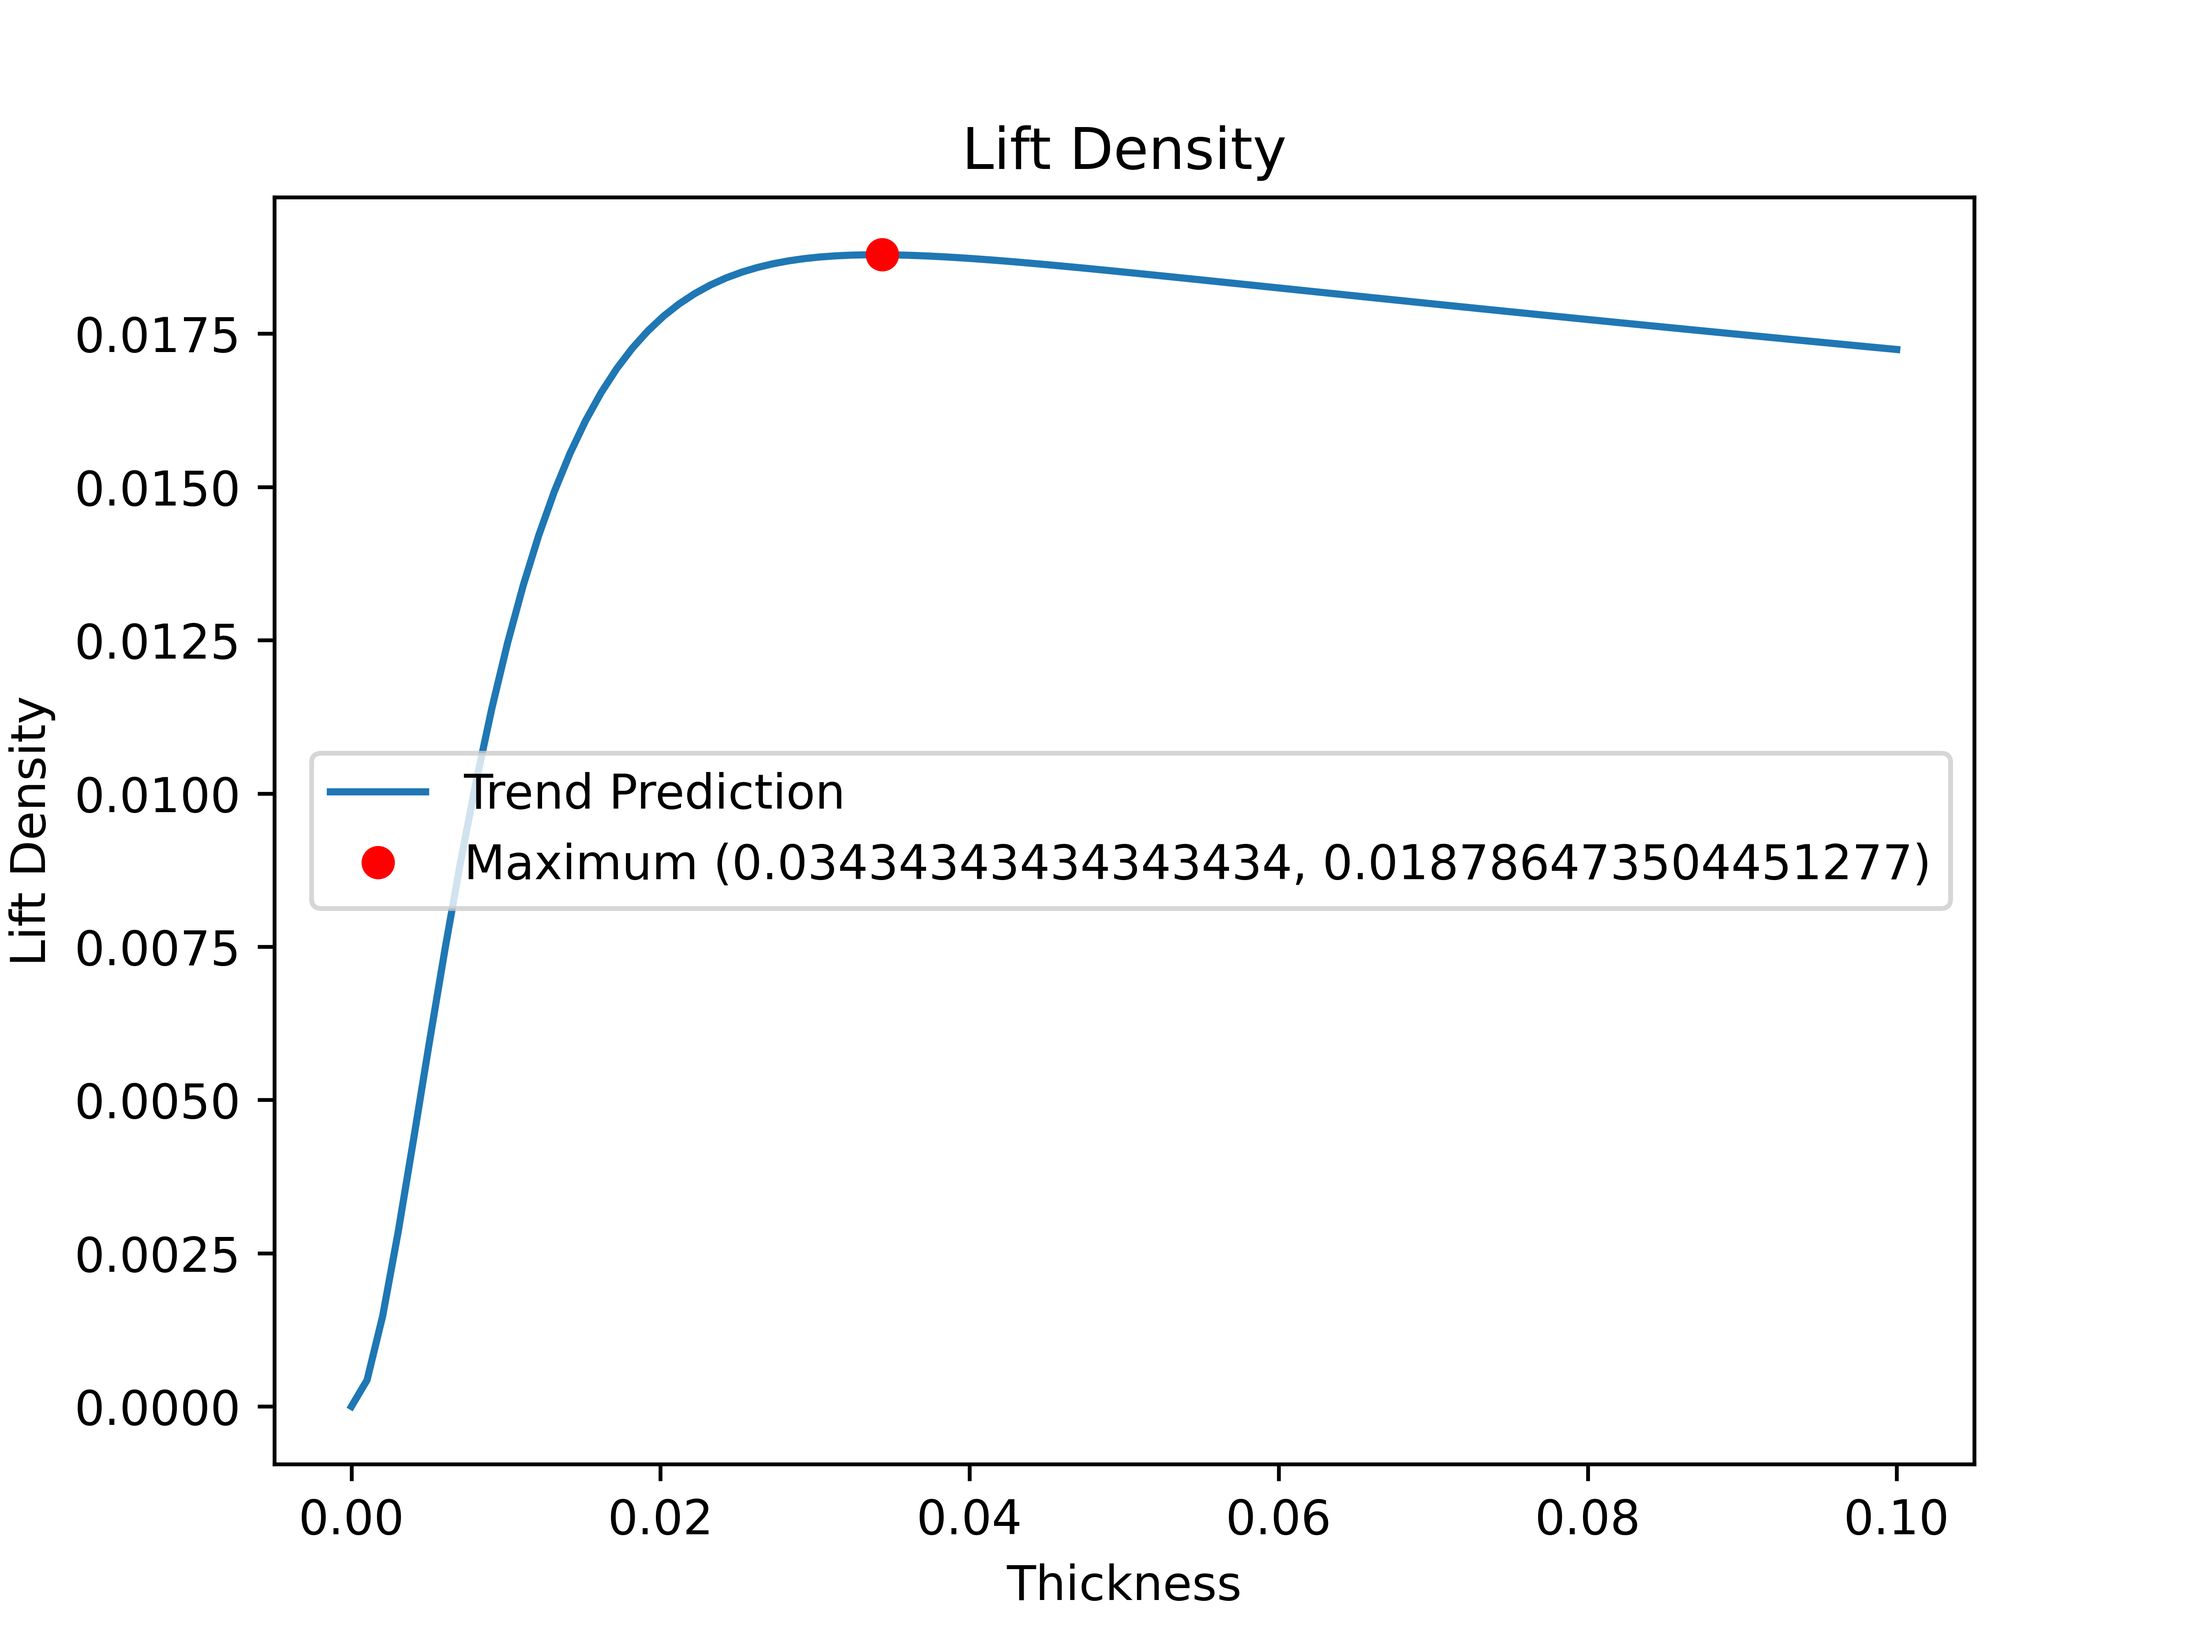
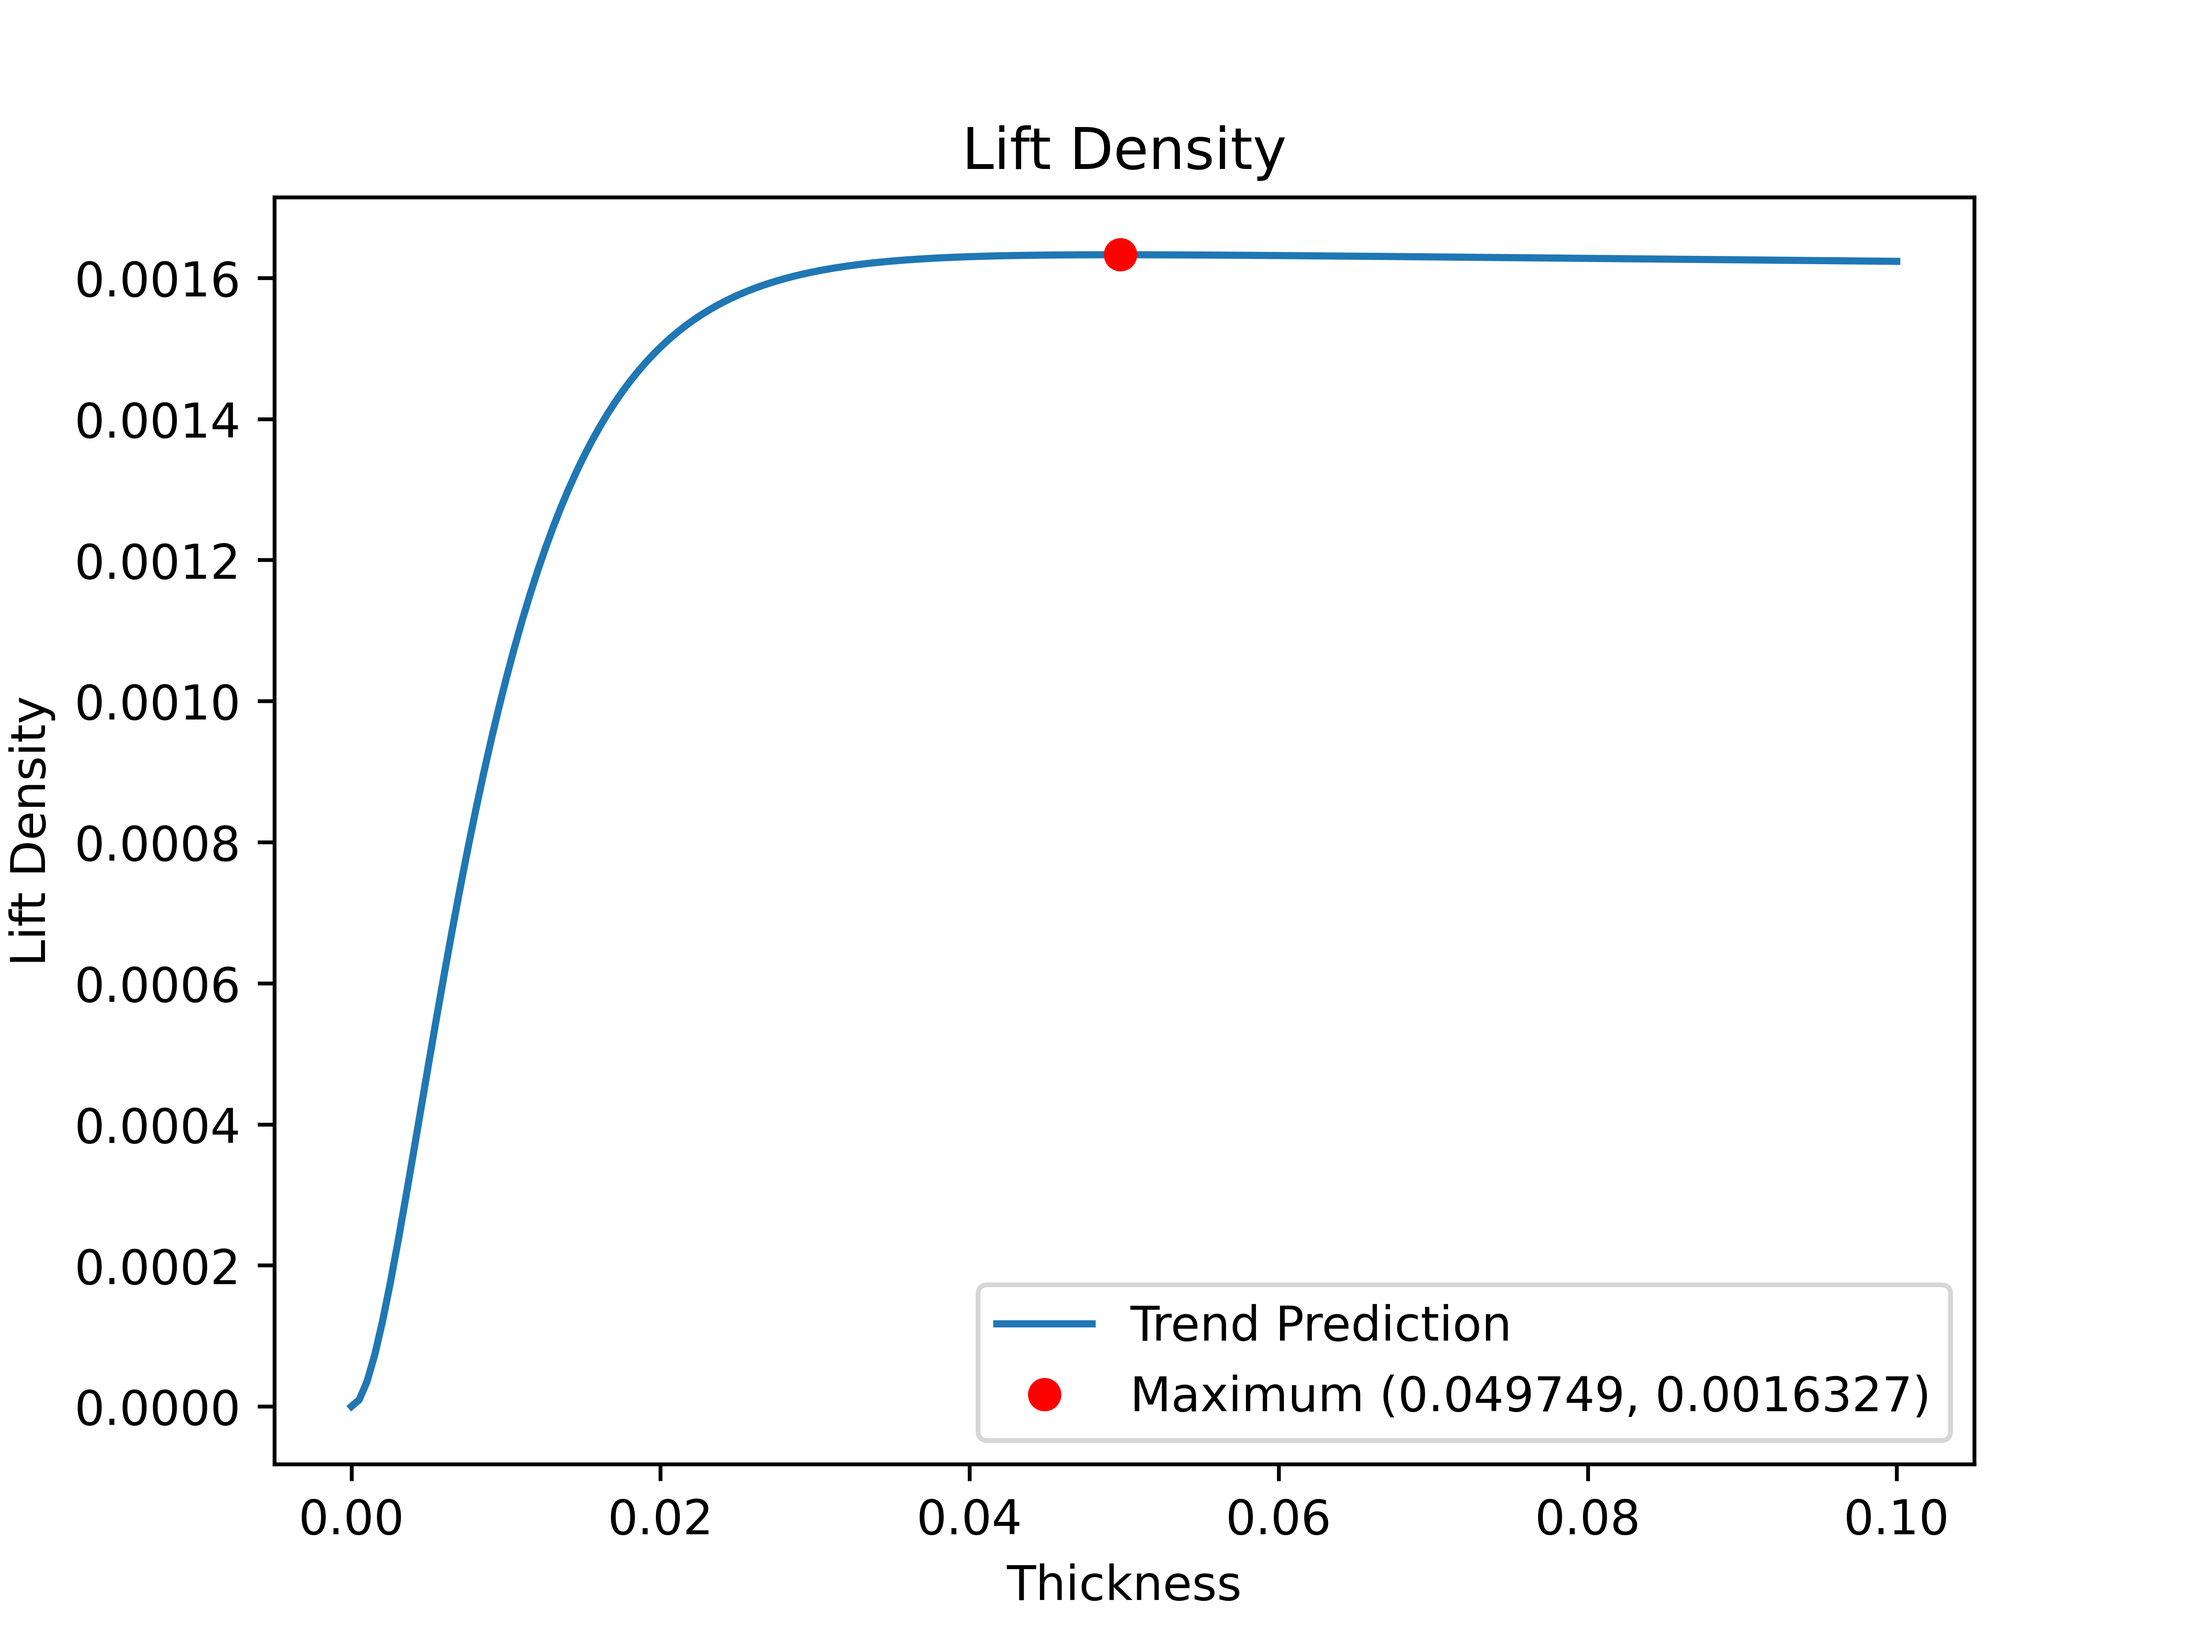
final optimisation results

diff --git a/halbach_analysis/plotting_functions.py b/halbach_analysis/plotting_functions.py
@@ -85,7 +85,7 @@ def array_plot(x_values, y_values, y_min=None, y_max=None, graph_title='title', 
             max_y_index = np.argmax(y_values)
             max_y = y_values[max_y_index]
             max_x = x_values[max_y_index]
-            axes.plot(max_x, max_y, 'ro', label=f'Maximum ({max_x}, {max_y})')
+            axes.plot(max_x, max_y, 'ro', label=f'Maximum ({max_x:.5g}, {max_y:.5g})')
         plt.legend()
     except Exception as e:
         print(f"An error occurred: {e}")

diff --git a/halbach_analysis/optimum_lift_density.py b/halbach_analysis/optimum_lift_density.py
@@ -26,11 +26,11 @@ def main():
     x_min, x_max = 0, 0.1
     halbach_wavelength = 2*np.pi / 0.04
     mass_per_unit_length = 80
-    const_mass = 50
+    const_mass = 0.08 * 7600  # density of NeFeB * CSA of skis
     lift_constant = 1
 
     # create thickness set
-    resolution = 100
+    resolution = 200
     thicknesses = np.linspace(x_min, x_max, resolution)
 
     # generate results
